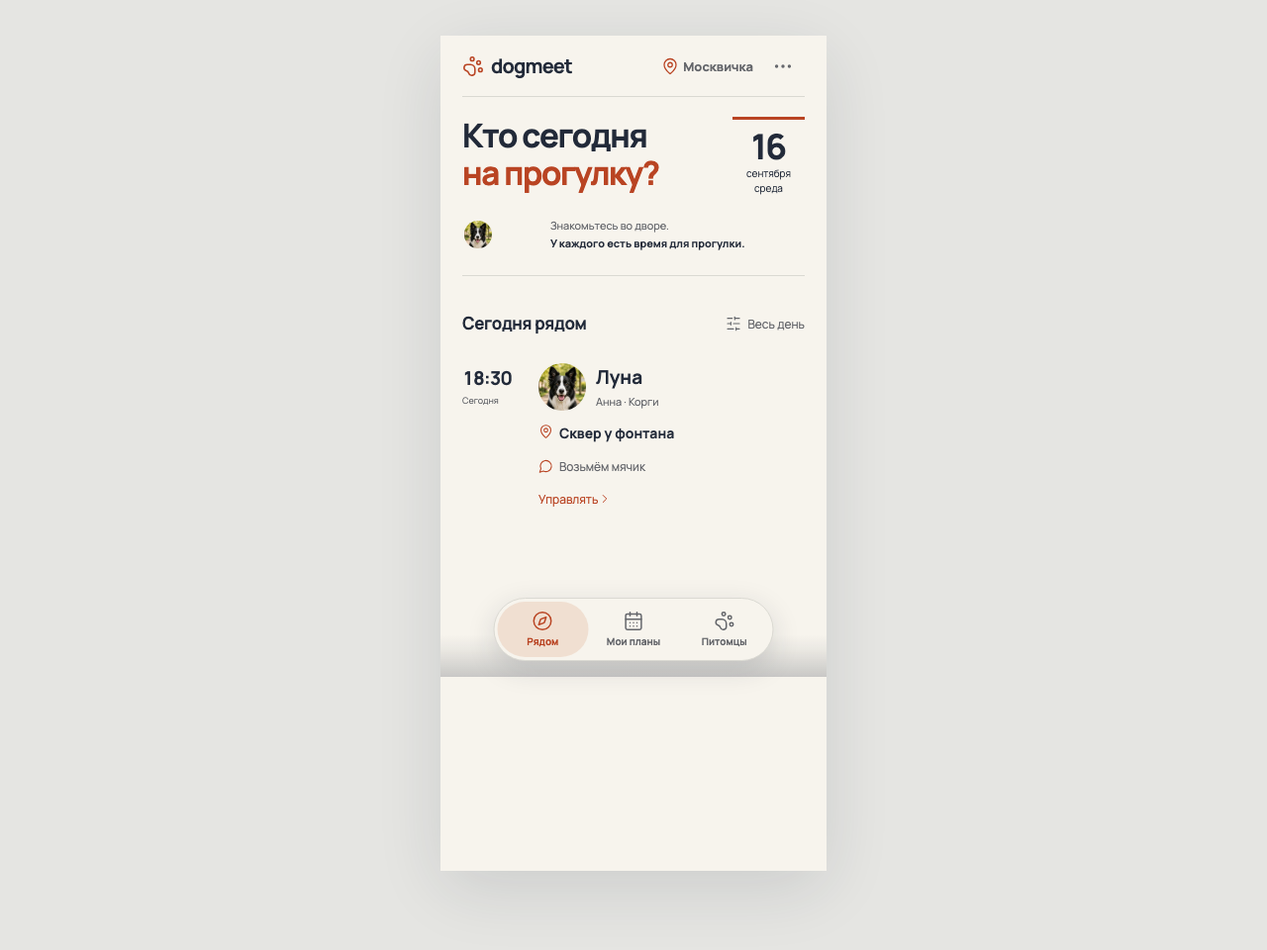
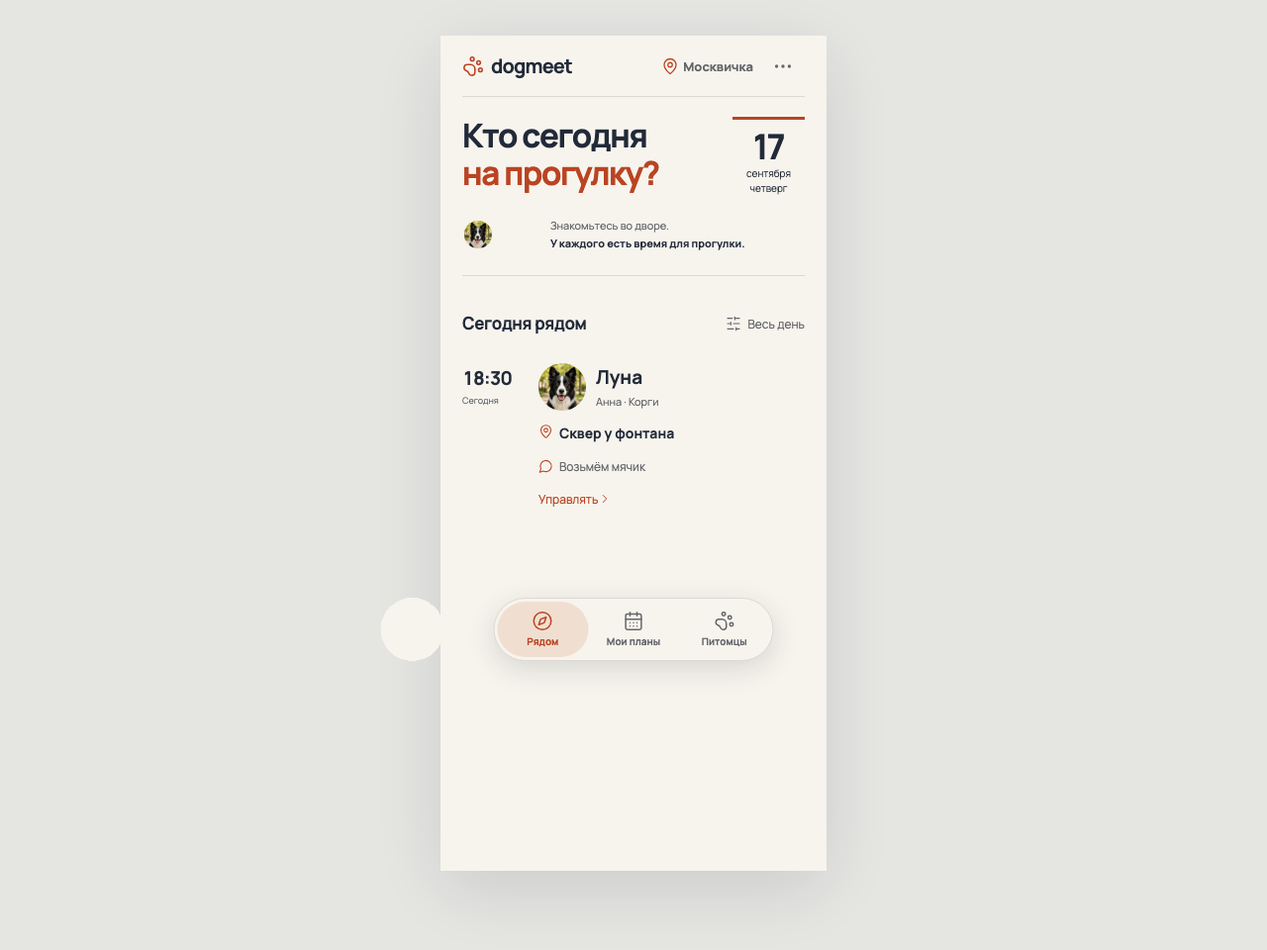
Polish home experience

Changed region(s): [[0.3125, 0.625, 0.6562, 0.7188], [0.5938, 0.125, 0.625, 0.2188]]

diff --git a/prototypes/dogmeet/app.jsx b/prototypes/dogmeet/app.jsx
@@ -51,6 +51,7 @@ function App(){
  const acceptParams=new URLSearchParams(location.hash.split('?')[1]||'');const invitedPet=[...pets,...otherPets].find(p=>p.id===acceptParams.get('pet'))||richie;
  const currentWalk=walks.find(w=>w.id===walkId)||initialWalks[2];const currentRequest=requests.find(r=>r.id===requestId)||initialRequests[0];
  const allPets=[...pets,...otherPets.filter(p=>!pets.some(own=>own.id===p.id))];const findPet=pid=>allPets.find(p=>p.id===pid)||initialPets.find(p=>p.id===pid)||richie;
+ const nearbyWalks=walks.filter(w=>(w.schedule==='Сегодня'||w.schedule==='Ежедневно')&&w.complex===savedLocation.complex);
  const navigate=useCallback(async(next,index)=>{
   const current=routeRef.current, n=nav.current;
   const target=`${index}:${next.id}:${next.state}`;
@@ -179,8 +180,8 @@ function App(){
  function row(title,sub,icon,onClick,extra){const Icon=icon||ChevronRight;return <button type="button" className="menu-row" onClick={onClick}><Icon aria-hidden="true"/><span><strong>{title}</strong>{sub&&<small>{sub}</small>}</span>{extra||<ChevronRight aria-hidden="true"/>}</button>}
  function petFace(p,size=''){return <img data-pet-photo={p.id} className={`pet-face ${size}`} src={p.photo} alt={`Собака ${p.name}`}/>}
  function PetRows({admin=false,choose=false}){return <div className="pet-rows">{(admin?allPets:pets).filter(p=>!query||p.name.toLowerCase().includes(query.toLowerCase())).map(p=><button type="button" className="pet-row" key={p.id} onClick={()=>{setPetId(p.id);if(choose){setDraft({...draft,petId:p.id});go(formReturn)}else if(admin)editPet(p,true);else go('pet',p.shared?'shared':'base')}}>{petFace(p)}<span><strong>{p.name}</strong><small>{p.breed} · {p.owner}</small><em>{p.shared?'Общий питомец':'Ваш питомец'}</em></span>{choose&&draft.petId===p.id?<Check/>:<ChevronRight/>}</button>)}</div>}
- function WalkList({mine=false,preview=false}){const items=walks.filter(w=>mine?w.mine:w.schedule!=='Завтра'&&w.complex===savedLocation.complex).filter(w=>mine||period==='Все'||(period==='Утро'?+w.time.slice(0,2)<12:period==='День'?+w.time.slice(0,2)>=12&&+w.time.slice(0,2)<18:+w.time.slice(0,2)>=18)).sort((a,b)=>a.time.localeCompare(b.time));if(!items.length)return Empty();return <div className="timeline">{items.map(w=>{const p=findPet(w.petId);return <article className="walk-row" key={w.id}><div className="time-column"><strong>{w.time}</strong><span>{w.schedule==='Ежедневно'?'Каждый день':w.schedule}</span><i/></div><button type="button" className="walk-summary" onClick={()=>{setWalkId(w.id);setPetId(w.petId);go(mine?'walk-actions':'walk')}} tabIndex={preview?-1:0}>{petFace(p)}<span className="walk-person"><strong>{p.name}</strong><small>{p.owner} · {p.breed}</small></span><span className="walk-place"><MapPin/>{w.place}</span><span className="walk-comment"><MessageCircle aria-hidden="true"/>{w.comment||'Присоединяйтесь к прогулке'}</span>{mine&&<span className="text-link">Управлять <ChevronRight/></span>}</button></article>})}</div>}
- function Empty(){const petRelated=['pets','choose-pet','admin-pets'].includes(id);const isReq=id==='requests';const adminEmpty=id==='admin-pets';return <div className="state-block"><PawPrint className="state-icon"/><h2>{petRelated?'Пока ни одного питомца':isReq?'Все заявки разобраны':id==='location'?'Локация ещё не добавлена':id==='choose-place'?'Такого места пока нет':'Здесь пока тихо'}</h2><p>{petRelated?'Добавьте питомца, чтобы сообщать о прогулках.':isReq?'Новые предложения жителей появятся здесь.':id==='choose-place'?'Укажите своё место встречи. Соседи увидят его в объявлении.':'Сообщите, когда пойдёте гулять. Компания начинается с вас.'}</p><Button onClick={()=>{if(isReq||adminEmpty)go('admin');else if(id==='location')go('request');else if(id==='choose-place'){setQuery('');variant('base')}else if(petRelated){setPetDraft({name:'',owner:'',breed:'',photo:'/dog-placeholder.webp'});go('new-pet')}else startWalk()}}>{isReq||adminEmpty?'К управлению':id==='location'?'Предложить локацию':id==='choose-place'?'Указать своё место':petRelated?'Добавить питомца':'Сообщить о прогулке'}</Button>{id==='nearby'&&<Button variant="quiet" onClick={()=>{setPeriod('Все');variant('base')}}>Показать весь день</Button>}</div>}
+ function WalkList({mine=false,preview=false}){const items=(mine?walks.filter(w=>w.mine):nearbyWalks).filter(w=>mine||period==='Все'||(period==='Утро'?+w.time.slice(0,2)<12:period==='День'?+w.time.slice(0,2)>=12&&+w.time.slice(0,2)<18:+w.time.slice(0,2)>=18)).sort((a,b)=>a.time.localeCompare(b.time));if(!items.length)return Empty();return <div className="timeline">{items.map(w=>{const p=findPet(w.petId);return <article className="walk-row" key={w.id}><div className="time-column"><strong>{w.time}</strong><span>{w.schedule==='Ежедневно'?'Каждый день':w.schedule}</span><i/></div><button type="button" className="walk-summary" onClick={()=>{setWalkId(w.id);setPetId(w.petId);go(mine?'walk-actions':'walk')}} tabIndex={preview?-1:0}>{petFace(p)}<span className="walk-person"><strong>{p.name}</strong><small>{p.owner} · {p.breed}</small></span><span className="walk-place"><MapPin/>{w.place}</span><span className="walk-comment"><MessageCircle aria-hidden="true"/>{w.comment||'Присоединяйтесь к прогулке'}</span>{mine&&<span className="text-link">Управлять <ChevronRight/></span>}</button></article>})}</div>}
+ function Empty(){const petRelated=['pets','choose-pet','admin-pets'].includes(id);const isReq=id==='requests';const adminEmpty=id==='admin-pets';return <div className="state-block"><PawPrint className="state-icon"/><h2>{petRelated?'Пока ни одного питомца':isReq?'Все заявки разобраны':id==='location'?'Локация ещё не добавлена':id==='choose-place'?'Такого места пока нет':'Здесь пока тихо'}</h2><p>{petRelated?'Добавьте питомца, чтобы сообщать о прогулках.':isReq?'Новые предложения жителей появятся здесь.':id==='choose-place'?'Укажите своё место встречи. Соседи увидят его в объявлении.':'Сообщите, когда пойдёте гулять. Компания начинается с вас.'}</p><Button onClick={()=>{if(isReq||adminEmpty)go('admin');else if(id==='location')go('request');else if(id==='choose-place'){setQuery('');variant('base')}else if(petRelated){setPetDraft({name:'',owner:'',breed:'',photo:'/dog-placeholder.webp'});go('new-pet')}else startWalk()}}>{isReq||adminEmpty?'К управлению':id==='location'?'Предложить локацию':id==='choose-place'?'Указать своё место':petRelated?'Добавить питомца':'Сообщить о прогулке'}</Button>{id==='nearby'&&state!=='empty'&&nearbyWalks.length>0&&<Button variant="quiet" onClick={()=>{setPeriod('Все');variant('base')}}>Показать весь день</Button>}</div>}
  function Scenario({children}){if(state==='loading')return <div className="state-block" role="status" aria-live="polite" aria-busy="true"><div className="loader"/><h2>{['nearby','pets','plans','requests','admin-pets'].includes(id)?'Загружаем…':'Сохраняем…'}</h2><p>Подождите, это займёт несколько секунд.</p><div className="skeleton"/><div className="skeleton short"/><Button variant="quiet" onClick={()=>{timers.current.splice(0).forEach(clearTimeout);variant('base')}}>Вернуться</Button></div>;if(state==='error')return <div className="state-block" role="alert"><CircleAlert className="state-icon"/><h2>{id==='admin-login'?'Не удалось войти':['nearby','plans','pets','requests','admin-pets','choose-pet','choose-place','admin'].includes(id)?'Не получилось загрузить':'Не удалось сохранить'}</h2><p>{id==='admin-login'?'Проверьте логин и пароль. Данные формы сохранены.':'Проверьте соединение и попробуйте ещё раз. Ваши изменения не потеряны.'}</p><Button onClick={()=>variant('base')}><RefreshCw/>Повторить</Button><Button variant="quiet" onClick={back}>Назад</Button></div>;if(state==='empty')return Empty();if(state==='success'){const [title,text]=successCopy[id]||['Готово','Изменения сохранены.'];return <div className="state-block success" role="status"><CheckCircle2 className="state-icon"/><h2>{title}</h2><p>{text}</p>{['announce','edit-walk'].includes(id)&&<div className="receipt"><strong>{draft.time} · {draft.schedule}</strong><span>{draft.place}</span><small>{findPet(draft.petId).name} · {savedLocation.complex}</small></div>}<Button onClick={()=>go(guided&&id==='new-pet'?'announce':nextAfter[id]||'nearby')}>{guided&&id==='new-pet'?'Продолжить прогулку':['announce','edit-walk','delete-walk'].includes(id)?'Посмотреть мои планы':id==='request'?'Выбрать другой район':id==='admin-login'?'Открыть управление':'Готово'}<ArrowRight/></Button></div>}return children}
  function submitPet(e){e.preventDefault();const values={name:petDraft.name,owner:petDraft.owner,breed:petDraft.breed};if(!validate(values,{name:40,owner:60,breed:20})||photoError)return;complete(()=>{let saved;if(id==='new-pet'){saved={...petDraft,id:`pet-${Date.now()}`,shared:false};setPets(ps=>[...ps,saved]);}else {saved={...currentPet,...petDraft};if(id==='admin-edit'&&otherPets.some(p=>p.id===saved.id)){setOtherPets(ps=>ps.map(p=>p.id===saved.id?saved:p))}else setPets(ps=>ps.some(p=>p.id===saved.id)?ps.map(p=>p.id===saved.id?saved:p):[...ps,saved]);}setPetId(saved.id);setDraft(d=>({...d,petId:saved.id}));});}
  function handlePhoto(e){const file=e.target.files?.[0];if(!file)return;if(!['image/jpeg','image/png','image/webp'].includes(file.type)||file.size>10*1024*1024){setPhotoError('Нужен JPG, PNG или WebP до 10 МБ.');return}const reader=new FileReader();reader.onload=()=>{const img=new Image();img.onload=()=>{setPetDraft(p=>({...p,photo:String(reader.result)}));setPhotoError('');notify('Фотография выбрана')};img.onerror=()=>setPhotoError('Файл не удалось прочитать как фотографию. Выберите другой.');img.src=String(reader.result)};reader.onerror=()=>setPhotoError('Не удалось прочитать файл. Попробуйте другой.');reader.readAsDataURL(file);}
@@ -193,7 +194,7 @@ function App(){
  case 'guide':return <><div className="guide-symbol"><Compass/></div><h2>Останемся<br/>на связи</h2><p>Откройте Dogmeet в обычном браузере, чтобы ваши питомцы и планы сохранялись в этой сессии.</p><div className="segmented">{['iPhone','Android'].map(v=><button type="button" aria-pressed={(state==='android'?'Android':platform)===v} key={v} onClick={()=>{setPlatform(v);if(state==='android')variant('base')}}>{v}</button>)}</div><div className="instruction"><span>1</span><div><strong>{(state==='android'?'Android':platform)==='iPhone'?'Нажмите значок компаса':'Откройте меню с тремя точками'}</strong><p>{(state==='android'?'Android':platform)==='iPhone'?'Внизу окна Telegram выберите открытие в Safari.':'В верхнем углу выберите «Открыть в браузере».'}</p></div></div><div className="instruction"><span>2</span><div><strong>Продолжите здесь</strong><p>Если вы уже в Safari или Chrome, просто нажмите кнопку ниже.</p></div></div><Button onClick={()=>go('location')}>Продолжить<ArrowRight/></Button></>;
  case 'location':{const cities=[...new Set(availableLocations.map(l=>l.city))];const districts=[...new Set(availableLocations.filter(l=>l.city===loc.city).map(l=>l.district))];const complexes=availableLocations.filter(l=>l.city===loc.city&&l.district===loc.district).map(l=>l.complex);return <><p className="lead">Компания начинается<br/>рядом с домом.</p><div className="location-preview"><MapPin/><strong>{loc.complex||'Ваш жилой комплекс'}</strong><span>{loc.city||'Выберите город'} · {loc.district||'Район'}</span></div><form onSubmit={e=>{e.preventDefault();if(validate(loc))complete(()=>setSavedLocation(loc))}} noValidate><Field errors={formErrors} forced={state==='validation'} label="Город" name="city" value={loc.city} options={cities} onChange={v=>setLoc({city:v,district:'',complex:''})}/><Field errors={formErrors} forced={state==='validation'} label="Район" name="district" value={loc.district} options={districts} onChange={v=>setLoc({...loc,district:v,complex:''})}/><Field errors={formErrors} forced={state==='validation'} label="Жилой комплекс" name="complex" value={loc.complex} options={complexes} onChange={v=>setLoc({...loc,complex:v})}/><Button type="submit">Показать прогулки<ArrowRight/></Button></form><Button variant="quiet" onClick={()=>go('request')}>Нет моего жилого комплекса</Button></>}
  case 'request':return <><p>Расскажите, где хотите гулять. Администратор рассмотрит заявку и добавит новую локацию.</p><form noValidate onSubmit={e=>{e.preventDefault();if(validate(req))complete(()=>setRequests(rs=>[...rs,{...req,id:`r-${Date.now()}`,date:'14 сентября, 19:15'}]))}}>{[['city','Город'],['district','Район'],['complex','Жилой комплекс']].map(([key,label])=><Field errors={formErrors} forced={state==='validation'} key={key} label={label} name={key} value={req[key]} onChange={v=>setReq({...req,[key]:v})}/>)}<div className="note"><Clock3/>Пока заявка на рассмотрении, можно выбрать соседний район.</div><Button type="submit">Отправить заявку<ArrowRight/></Button></form></>;
- case 'nearby':return <><div className="page-header nearby-toolbar"><div className="brand"><PawPrint aria-hidden="true"/>dogmeet</div><button type="button" className="location-switch" onClick={()=>{setLoc(savedLocation);go('location')}}><MapPin/><span>{savedLocation.complex}</span></button><button type="button" className="icon-button" aria-label="Мой район и настройки" onClick={()=>go('profile')}><MoreHorizontal/></button></div><div className="day-heading"><h1 ref={heading} tabIndex="-1">Кто сегодня<br/><em>на прогулку?</em></h1><span className="date-stamp"><strong>14</strong>сентября<br/>понедельник</span></div><div className="daily-summary"><div className="stacked-faces">{[richie,initialPets[1],initialPets[0]].map(p=><img key={p.id} src={p.photo} alt={p.name}/>)}</div><p>Знакомьтесь во дворе.<br/><strong>У каждого есть время для прогулки.</strong></p></div><div className="section-line"><h2>Сегодня рядом</h2><button type="button" className="filter-trigger" onClick={()=>{setTempPeriod(period);go('filters')}}><SlidersHorizontal/>{period==='Все'?'Весь день':period}</button></div>{WalkList({})}</>;
+ case 'nearby':return <><div className="page-header nearby-toolbar"><div className="brand"><PawPrint aria-hidden="true"/>dogmeet</div><button type="button" className="location-switch" onClick={()=>{setLoc(savedLocation);go('location')}}><MapPin/><span>{savedLocation.complex}</span></button><button type="button" className="icon-button" aria-label="Мой район и настройки" onClick={()=>go('profile')}><MoreHorizontal/></button></div><div className="day-heading"><h1 ref={heading} tabIndex="-1">Кто сегодня<br/><em>на прогулку?</em></h1><span className="date-stamp"><strong>14</strong>сентября<br/>понедельник</span></div>{nearbyWalks.length===0&&<div className="day-divider" aria-hidden="true"/>}{nearbyWalks.length>0&&<><div className="daily-summary"><div className="stacked-faces">{[richie,initialPets[1],initialPets[0]].map(p=><img key={p.id} src={p.photo} alt={p.name}/>)}</div><p>Знакомьтесь во дворе.<br/><strong>У каждого есть время для прогулки.</strong></p></div><div className="section-line"><h2>Сегодня рядом</h2><button type="button" className="filter-trigger" onClick={()=>{setTempPeriod(period);go('filters')}}><SlidersHorizontal/>{period==='Все'?'Весь день':period}</button></div></>}{WalkList({})}</>;
  case 'filters':return <><p>В какое время вам удобнее встретиться?</p><div className="option-list">{['Все','Утро','День','Вечер'].map((p,i)=><button type="button" key={p} aria-pressed={tempPeriod===p} onClick={()=>setTempPeriod(p)}><span><strong>{p==='Все'?'Весь день':p}</strong><small>{['Все прогулки сегодня','До 12:00','12:00–17:59','После 18:00'][i]}</small></span>{tempPeriod===p?<Check/>:i===3?<Moon/>:<Sun/>}</button>)}</div><Button onClick={()=>{setPeriod(tempPeriod);go('nearby')}}>Показать прогулки<ArrowRight/></Button></>;
  case 'walk':{const p=findPet(currentWalk.petId);return <><img className="portrait" src={p.photo} alt={p.name}/><div className="pet-title"><h2>{p.name}</h2><span>{p.breed}</span></div><p>Гуляет с {p.owner==='Анна'?'Анной':p.owner==='Мария'?'Марией':'Михаилом'}</p><div className="big-time"><Clock3/><strong>{currentWalk.time}</strong><span>{currentWalk.schedule}</span></div><div className="place-detail"><MapPin/><div><h3>{currentWalk.place}</h3><p>{savedLocation.complex}<br/>{savedLocation.city}, {savedLocation.district}</p></div></div><blockquote>«{currentWalk.comment||'Приходите гулять вместе'}»</blockquote><div className="note">Узнаете друг друга по питомцу. Встречайтесь в указанном месте.</div><Button onClick={currentWalk.mine?editWalk:startWalk}>{currentWalk.mine?'Изменить мою прогулку':'Сообщить о своей прогулке'}<ArrowRight/></Button></>}
  case 'announce':case 'edit-walk':return <><p>{id==='edit-walk'?'Поменялись планы? Обновите детали.':'Расскажите соседям, где вас найти.'}</p><form noValidate onSubmit={submitWalk}><button type="button" className="selected-pet" onClick={()=>{setFormReturn(id);setQuery('');go('choose-pet')}}>{petFace(findPet(draft.petId))}<span><small>Иду гулять с</small><strong>{findPet(draft.petId).name}</strong></span><ChevronDown/></button>{errorFor('petId')&&<p className="field-error">{errorFor('petId')}</p>}<div className="field"><span>Когда</span></div><div className="segmented">{['Сегодня','Завтра','Ежедневно'].map(s=><button type="button" key={s} aria-pressed={draft.schedule===s} onClick={()=>setDraft({...draft,schedule:s})}>{s}</button>)}</div><div className="walk-settings">{row('Время',draft.time,Clock3,()=>{setFormReturn(id);go('choose-time')})}{row('Место встречи',draft.place,MapPin,()=>{setFormReturn(id);setQuery('');go('choose-place')})}</div>{errorFor('place')&&<p className="field-error">{errorFor('place')}</p>}<label className="field"><span>Комментарий <small>необязательно</small></span><textarea value={draft.comment} maxLength={40} onChange={e=>setDraft({...draft,comment:e.target.value})} placeholder="Например, возьмём мячик"/><small className="counter">{draft.comment.length}/40</small></label><div className="note"><MapPin/>Прогулка появится в районе {savedLocation.complex}.</div><Button type="submit">{id==='edit-walk'?'Сохранить изменения':'Сообщить о прогулке'}<ArrowRight/></Button></form></>;

diff --git a/app/features/home/components/WalksWorkspace.tsx b/app/features/home/components/WalksWorkspace.tsx
@@ -69,6 +69,9 @@ export function WalksWorkspace({ dockSection, location, period, visibleWalks, sa
   const day = today.find((part) => part.type === "day")?.value ?? "";
   const month = today.find((part) => part.type === "month")?.value ?? "";
   const weekday = today.find((part) => part.type === "weekday")?.value ?? "";
+  const hasTodayWalks = savedWalks.length > 0;
+  const showWalkControls = !walksLoaded || Boolean(walksError) || hasTodayWalks;
+  const showAllDayAction = walksLoaded && !walksError && hasTodayWalks;
 
   if (contactOpen) return <div className="screen contact-screen"><DogmeetHeader onBack={onBack} /><h1>Связь с разработчиком</h1>{contactCopied ? <DogmeetState state="success" title="Контакт скопирован" message="Ссылка на Telegram разработчика готова к вставке." onAction={onBack} /> : <><h2>Есть идея<br />или вопрос?</h2><p>Разработчик Dogmeet — в Telegram. Напишите, что можно сделать удобнее.</p><div className="receipt"><strong>@kuznetsoviv</strong><span>t.me/kuznetsoviv</span></div><button className="button" type="button" onClick={async () => { try { await navigator.clipboard.writeText("https://t.me/kuznetsoviv"); setContactCopied(true); } catch { setCopyError("Не удалось скопировать. Выделите контакт и скопируйте вручную."); } }}><Copy />Скопировать контакт</button>{copyError && <p className="field-error" role="alert">{copyError}</p>}</>}</div>;
 
@@ -124,12 +127,15 @@ export function WalksWorkspace({ dockSection, location, period, visibleWalks, sa
     <div className="screen walks-screen">
       <DogmeetHeader location={location.complex} onLocation={onOpenLocationEditor} onProfile={onOpenProfile} />
       <div className="day-heading"><h1>Кто сегодня<br /><em>на прогулку?</em></h1><span className="date-stamp"><strong>{day}</strong>{month}<br />{weekday}</span></div>
-      <div className="daily-summary">
-        <span className="stacked-faces">{savedWalks.slice(0, 3).map((walk) => <Image key={walk.id} src={walk.image} alt="" width={32} height={32} unoptimized={walk.image.startsWith("/api/")} />)}</span>
-        <p>Знакомьтесь во дворе.<br /><strong>{savedWalks.length ? `У каждого есть время для прогулки.` : "Начните расписание двора."}</strong></p>
-      </div>
-      <div className="section-line"><h2>Сегодня рядом</h2><button className="filter-trigger" type="button" onClick={() => { setTempPeriod(period); setFiltersOpen(true); }}><SlidersHorizontal aria-hidden="true" />{period === "Все" ? "Весь день" : period}</button></div>
-      {!walksLoaded ? <DogmeetState state="loading" /> : walksError ? <DogmeetState state="error" message={walksError} onAction={onRetryWalks} /> : visibleWalks.length === 0 ? <DogmeetState state="empty" action="Сообщить о прогулке" onAction={onStartWalk}><button className="button quiet" type="button" onClick={() => onPeriodChange("Все")}>Показать весь день</button></DogmeetState> : (
+      {!hasTodayWalks && <div className="day-divider" aria-hidden="true" />}
+      {showWalkControls && <>
+        <div className="daily-summary">
+          <span className="stacked-faces">{savedWalks.slice(0, 3).map((walk) => <Image key={walk.id} src={walk.image} alt="" width={32} height={32} unoptimized={walk.image.startsWith("/api/")} />)}</span>
+          <p>Знакомьтесь во дворе.<br /><strong>У каждого есть время для прогулки.</strong></p>
+        </div>
+        <div className="section-line"><h2>Сегодня рядом</h2><button className="filter-trigger" type="button" onClick={() => { setTempPeriod(period); setFiltersOpen(true); }}><SlidersHorizontal aria-hidden="true" />{period === "Все" ? "Весь день" : period}</button></div>
+      </>}
+      {!walksLoaded ? <DogmeetState state="loading" /> : walksError ? <DogmeetState state="error" message={walksError} onAction={onRetryWalks} /> : visibleWalks.length === 0 ? <DogmeetState state="empty" action="Сообщить о прогулке" onAction={onStartWalk}>{showAllDayAction && <button className="button quiet" type="button" onClick={() => onPeriodChange("Все")}>Показать весь день</button>}</DogmeetState> : (
         <div className="timeline">{visibleWalks.map((walk) => {
           const owned = ownedWalksById.get(walk.id);
           return <div className="walk-row" key={walk.id}><div className="time-column"><strong>{walk.time}</strong><span>{walk.scheduleType === "always" ? "Каждый день" : walk.scheduleType === "tomorrow" ? "Завтра" : "Сегодня"}</span><i aria-hidden="true" /></div><div className="walk-summary" role="button" tabIndex={0} onClick={() => { onSelectWalk(walk); onOpenDetail(); }} onKeyDown={(event) => { if (event.key === "Enter" || event.key === " ") { event.preventDefault(); onSelectWalk(walk); onOpenDetail(); } }}><Image className="pet-face" src={walk.image} alt={`Собака ${walk.pet}`} width={48} height={48} unoptimized={walk.image.startsWith("/api/")} /><span className="walk-person"><strong>{walk.pet}</strong><small>{walk.owner} · {walk.breed}</small></span><span className="walk-place"><MapPin aria-hidden="true" />{walk.point}</span>{walk.comment && <span className="walk-comment"><MessageCircle aria-hidden="true" />{walk.comment}</span>}{owned && <button className="text-link" type="button" onClick={(event) => { event.stopPropagation(); setActionsWalk(walk); }}>Управлять<ChevronRight aria-hidden="true" /></button>}</div></div>;

diff --git a/app/features/home/BottomDock.tsx b/app/features/home/BottomDock.tsx
@@ -1,6 +1,7 @@
 "use client";
 
 import { CalendarDays, Check, Compass, PawPrint, Plus } from "lucide-react";
+import { useEffect, useRef } from "react";
 
 type BottomDockProps = {
   section: "nearby" | "plans" | "pets" | "walk";
@@ -19,9 +20,72 @@ export function BottomDock({ section, walkFormDirty, walkFormIsValid, petsLoaded
   const addingPet = section === "pets";
   const actionHidden = section === "nearby";
   const actionLabel = addingPet ? "Добавить питомца" : section === "walk" && walkFormDirty && walkFormIsValid ? "Сохранить прогулку" : "Создать прогулку";
+  const dockRef = useRef<HTMLElement>(null);
+
+  useEffect(() => {
+    const dock = dockRef.current;
+    const drop = dock?.querySelector<HTMLElement>(".dock-drop-shape");
+    const plus = dock?.querySelector<HTMLElement>(".dock-add");
+    if (!dock || !drop || !plus) return;
+
+    let raf = 0;
+    const clearInlineMotion = () => {
+      cancelAnimationFrame(raf);
+      drop.style.transform = "";
+      plus.style.transform = "";
+      plus.style.opacity = "";
+      plus.style.borderColor = "";
+    };
+
+    if (actionHidden || matchMedia("(prefers-reduced-motion: reduce)").matches) {
+      clearInlineMotion();
+      return () => cancelAnimationFrame(raf);
+    }
+
+    const styles = getComputedStyle(dock);
+    const start = Number.parseFloat(styles.getPropertyValue("--dock-size")) + Number.parseFloat(styles.getPropertyValue("--dock-gap"));
+    const end = 0;
+    const distance = Math.abs(end - start);
+    const duration = 980 / 3;
+
+    const setX = (x: number) => {
+      const transform = `translateX(${x}px)`;
+      drop.style.transform = transform;
+      plus.style.transform = transform;
+    };
+
+    const ease = (t: number) => {
+      const smooth = t * t * (3 - 2 * t);
+      const kick = t > 0.72 ? Math.sin((t - 0.72) / 0.28 * Math.PI) * 7 * (1 - t) : 0;
+      return smooth + kick / distance;
+    };
+
+    setX(start);
+    plus.style.opacity = "0";
+    plus.style.borderColor = "transparent";
+    const startTime = performance.now();
+    const frame = (now: number) => {
+      const raw = Math.min(1, (now - startTime) / duration);
+      setX(start + (end - start) * ease(raw));
+      const reveal = Math.max(0, Math.min(1, (raw - 0.42) / 0.35));
+      plus.style.opacity = String(reveal);
+      plus.style.borderColor = `rgba(239, 217, 198, ${reveal})`;
+      if (raw < 1) {
+        raf = requestAnimationFrame(frame);
+        return;
+      }
+      setX(end);
+      plus.style.opacity = "1";
+      plus.style.borderColor = "rgba(239,217,198,1)";
+      clearInlineMotion();
+    };
+
+    raf = requestAnimationFrame(frame);
+    return () => cancelAnimationFrame(raf);
+  }, [actionHidden]);
 
   return (
-    <nav className="bottom-nav walks-bottom-dock" data-action={actionHidden ? "hidden" : "visible"} aria-label="Основная навигация">
+    <nav ref={dockRef} className="bottom-nav walks-bottom-dock" data-action={actionHidden ? "hidden" : "visible"} aria-label="Основная навигация">
       <svg className="dock-goo-filter" aria-hidden="true" width="0" height="0">
         <defs>
           <filter id="dock-goo" x="-40%" y="-80%" width="220%" height="260%" colorInterpolationFilters="sRGB">

diff --git a/app/features/home/use-home-resources.ts b/app/features/home/use-home-resources.ts
@@ -2,7 +2,7 @@ import { useCallback, useEffect, useState } from "react";
 import { listMyWalks, listPets, listPlaces, listWalks } from "./api";
 import type { Location, Pet, SharedPlace } from "./model";
 import type { ApiWalk, Walk } from "../../../lib/walks";
-import { apiWalkToCard } from "../../../lib/walks";
+import { apiWalkToCard, isWalkScheduledForToday } from "../../../lib/walks";
 
 function errorMessage(error: unknown, fallback: string) {
   return error instanceof Error ? error.message : fallback;
@@ -54,8 +54,9 @@ export function useHomeResources(
     setWalksError("");
     try {
       const walks = await listWalks({ city, district, complex });
-      preloadImages(walks.map((walk) => walk.image));
-      setSavedWalks(walks.map(apiWalkToCard));
+      const todayWalks = walks.filter(isWalkScheduledForToday);
+      preloadImages(todayWalks.map((walk) => walk.image));
+      setSavedWalks(todayWalks.map(apiWalkToCard));
     } catch (error) {
       setWalksError(errorMessage(error, "Не удалось загрузить прогулки."));
     } finally {
@@ -124,8 +125,9 @@ export function useHomeResources(
     listWalks({ city, district, complex })
       .then((walks) => {
         if (!active) return;
-        preloadImages(walks.map((walk) => walk.image));
-        setSavedWalks(walks.map(apiWalkToCard));
+        const todayWalks = walks.filter(isWalkScheduledForToday);
+        preloadImages(todayWalks.map((walk) => walk.image));
+        setSavedWalks(todayWalks.map(apiWalkToCard));
       })
       .catch((error) => { if (active) setWalksError(errorMessage(error, "Не удалось загрузить прогулки.")); })
       .finally(() => { if (active) setWalksLoaded(true); });

diff --git a/app/page.tsx b/app/page.tsx
@@ -48,7 +48,7 @@ import { HomeDialogs } from "./features/home/components/HomeDialogs";
 import { LocationEditor, LocationRequestForm } from "./features/home/components/LocationFlow";
 import { PetForm } from "./features/home/components/PetForm";
 import { WalksWorkspace } from "./features/home/components/WalksWorkspace";
-import { apiWalkToCard, type ApiWalk, type Period, type Walk } from "../lib/walks";
+import { apiWalkToCard, isWalkScheduledForToday, type ApiWalk, type Period, type Walk } from "../lib/walks";
 import { BrowserGuide, detectBrowserGuidePlatform, isInAppBrowser, type BrowserGuidePlatform } from "./components/ui/BrowserGuide";
 import { DogmeetBrand, DogmeetDialog, DogmeetFrame, DogmeetHeader, requestDialogClose } from "./components/ui/DogmeetFrame";
 import { animateHeaderExit } from "./components/ui/motion.mjs";
@@ -745,7 +745,7 @@ export default function Home() {
       const belongsToSavedLocation = savedWalk.city === location.city &&
         savedWalk.district === location.district &&
         savedWalk.complex === location.complex;
-      const appearsToday = walkForm.scheduleType === "today" || walkForm.scheduleType === "always";
+      const appearsToday = isWalkScheduledForToday({ scheduleType: walkForm.scheduleType });
       setSavedWalks((current) => {
         const withoutEditedWalk = current.filter((walk) => walk.id !== savedWalk.id);
         return belongsToSavedLocation && appearsToday

diff --git a/app/prototype.css b/app/prototype.css
@@ -70,6 +70,7 @@ main.with-nav{padding-bottom:138px}
 .location-switch svg:first-child{color:var(--orange);width:18px}
 .location-switch svg:last-child{width:16px}
 .day-heading{display:flex;align-items:flex-start;gap:12px;padding-top:20px}
+.day-divider{height:1px;background:var(--line);margin-top:22px}
 .day-heading h1{font-size:33px;flex:1;margin:0;letter-spacing:-.04em}
 .date-stamp{display:flex;flex-direction:column;align-items:center;border-top:3px solid var(--orange);padding:7px 0 0;min-width:73px;line-height:1.45;font-size:10px;text-align:center}
 .date-stamp strong{font-size:35px;line-height:1.15;letter-spacing:-.04em}

diff --git a/prototypes/dogmeet/style.css b/prototypes/dogmeet/style.css
@@ -68,6 +68,7 @@ main.with-nav{padding-bottom:138px}
 .location-switch svg:first-child{color:var(--orange);width:18px}
 .location-switch svg:last-child{width:16px}
 .day-heading{display:flex;align-items:flex-start;gap:12px;padding-top:20px}
+.day-divider{height:1px;background:var(--line);margin-top:22px}
 .day-heading h1{font-size:33px;flex:1;margin:0;letter-spacing:-.04em}
 .date-stamp{display:flex;flex-direction:column;align-items:center;border-top:3px solid var(--orange);padding:7px 0 0;min-width:73px;line-height:1.45;font-size:10px;text-align:center}
 .date-stamp strong{font-size:35px;line-height:1.15;letter-spacing:-.04em}

diff --git a/e2e/site.spec.ts b/e2e/site.spec.ts
@@ -51,6 +51,7 @@ test("centers the nearby menu and keeps the add action stable between plans and 
   await expect.poll(centered).toBeLessThan(1);
 
   await dock.getByRole("button", { name: "Мои планы", exact: true }).click();
+  await expect.poll(() => add.evaluate((element) => new DOMMatrixReadOnly(getComputedStyle(element).transform).m41)).toBeGreaterThan(0);
   await expect(add).toHaveCSS("opacity", "1");
   await expect.poll(() => add.evaluate((element) => new DOMMatrixReadOnly(getComputedStyle(element).transform).m41)).toBe(0);
   const plansX = await add.evaluate((element) => element.getBoundingClientRect().x);

diff --git a/lib/walks.ts b/lib/walks.ts
@@ -34,6 +34,10 @@ export type ApiWalk = {
   image: string;
 };
 
+export function isWalkScheduledForToday(walk: { scheduleType: ScheduleType }) {
+  return walk.scheduleType === "today" || walk.scheduleType === "always";
+}
+
 export function apiWalkToCard(walk: ApiWalk): Walk {
   const [hours = "0", minutes = "00"] = walk.walkTime.split(":");
   const hour = Number(hours);
